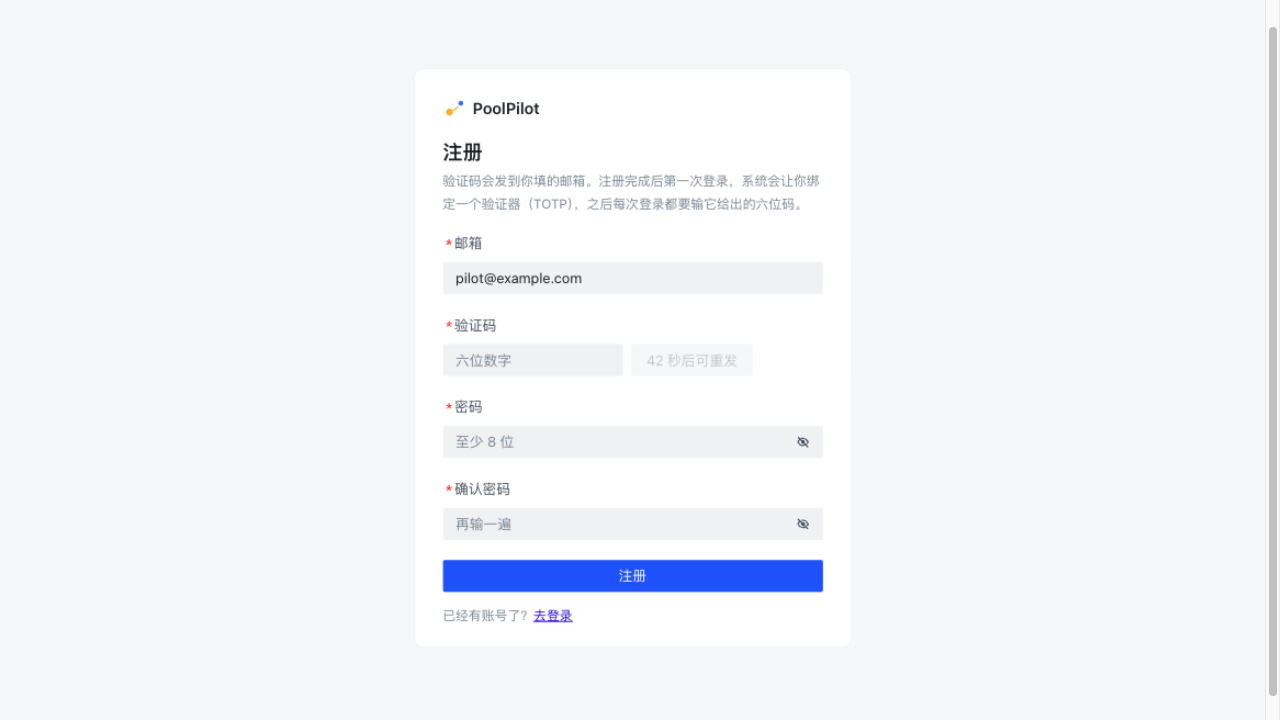
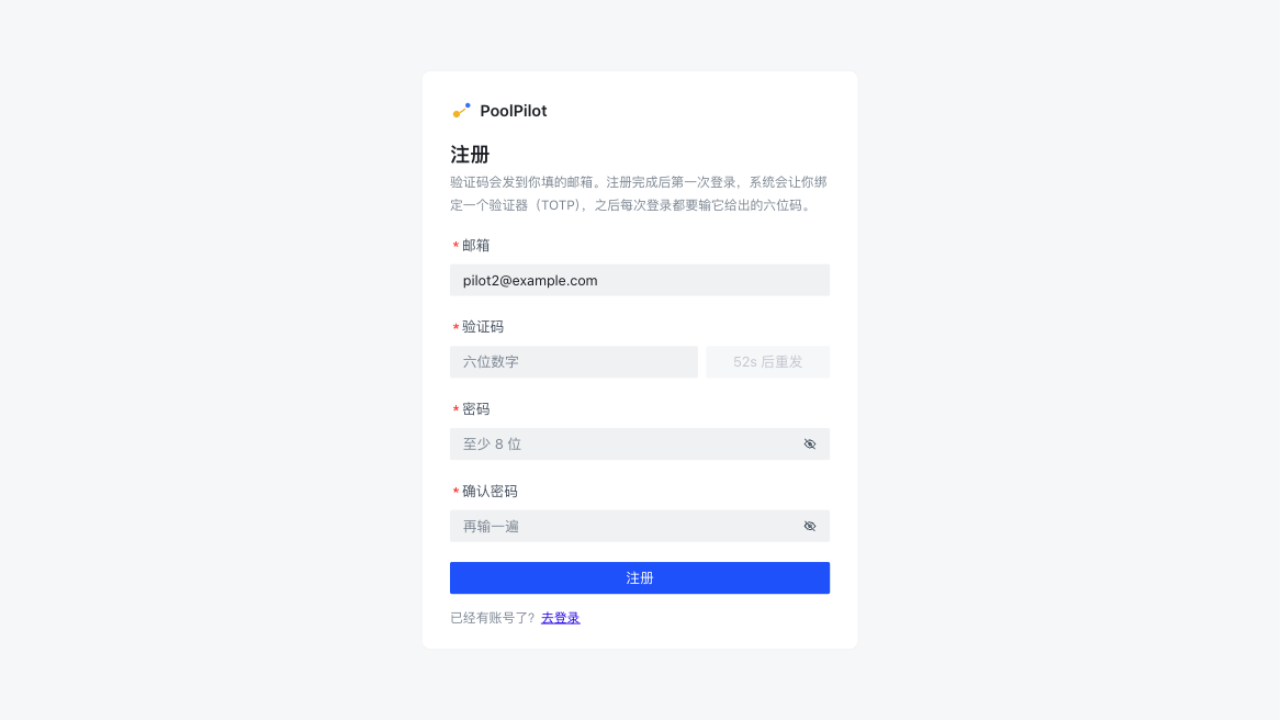
修登录/注册/绑定三页的两个布局毛病
**一、凭空多出来的滚动条**（用户先看到的那个）。`.auth-page` 是 `min-height: 100vh`
再加上下各 24px 内边距——而 Arco **没有全局 border-box**（实测这里算出来是 content-box），
于是页面高 768px，在 720 高的窗口里多出一条滚动条，指向的根本不是真溢出。
显式声明 `box-sizing: border-box` 即解；顺带把居中从父级的 align-items/justify-content
换成卡片自己的 `margin: auto`——卡片比视口高时（窄窗口下的 MFA 绑定页），
flex 居中会把顶部裁掉且滚不上去，那种"上半截永远看不到"的故障更难查。

**二、验证码那一行与其它字段对不齐**。Arco 的表单项内容区本身是个 flex 容器，
里面的自定义 div 作为 flex 子项**按内容收缩**（实测 290px，而密码框是 380px），
右边缘差 90px。给行 `flex: 1` 之后两者都是 380px、右边缘 823 对齐。
同时把发送按钮固定成 124px：倒计时文案比"发送验证码"长，宽度随文案变会让整行每秒抖一下
（文案顺带收短成「59s 后重发」）。这三张截图一并重拍。

diff --git a/web/src/views/RegisterView.vue b/web/src/views/RegisterView.vue
@@ -132,7 +132,7 @@ async function submit(): Promise<void> {
         <div class="code-row">
           <a-input v-model="code" placeholder="六位数字" maxlength="6" />
           <a-button :loading="sending" :disabled="!canSendCode" @click="sendCode">
-            {{ cooldown > 0 ? `${cooldown} 秒后可重发` : '发送验证码' }}
+            {{ cooldown > 0 ? `${cooldown}s 后重发` : '发送验证码' }}
           </a-button>
         </div>
       </a-form-item>
@@ -171,11 +171,23 @@ async function submit(): Promise<void> {
 /* 验证码与"发送"同一行：它们是同一个动作的两半 */
 .code-row {
   display: flex;
+
+  /* `flex: 1` 不能省：Arco 的表单项内容区本身是个 flex 容器，这个 div 作为它的
+     flex 子项会**按内容收缩**（实测 290px，而上面几个整宽字段是 380px）——
+     于是这一行与其它字段的右边缘对不齐 */
+  flex: 1;
   gap: 8px;
 }
 
 .code-row .arco-input-wrapper {
   flex: 1;
+  min-width: 0;
+}
+
+/* 按钮宽度固定：倒计时文案比"发送验证码"长，宽度随文案变的话整行每秒抖一下 */
+.code-row .arco-btn {
+  flex: 0 0 auto;
+  min-width: 124px;
 }
 
 .auth-error {

diff --git a/web/src/components/AuthCard.vue b/web/src/components/AuthCard.vue
@@ -34,9 +34,12 @@ defineProps<{
 
 <style scoped>
 .auth-page {
+  /* **必须显式声明 border-box**：Arco 没有全局 border-box（实测这里算出来是 content-box），
+     于是 `min-height: 100vh` 再加上下各 24px 内边距 = 748px，
+     在 720 高的窗口里凭空多出一条滚动条——内容离底部明明还远。
+     表现为"登录页右侧总有个滚轮"，而它指向的是一个根本不存在的内容溢出 */
+  box-sizing: border-box;
   display: flex;
-  align-items: center;
-  justify-content: center;
   min-height: 100vh;
   padding: 24px;
   background: var(--color-fill-1);
@@ -49,6 +52,11 @@ defineProps<{
   background: var(--color-bg-1);
   border: 1px solid var(--color-border-1);
   border-radius: 10px;
+
+  /* 居中用 margin: auto，而不是父级 align-items/justify-content：
+     卡片比视口高时（例如窄窗口下的 MFA 页），flex 居中会把顶部裁掉且滚不上去，
+     那种"页面上半截永远看不到"的故障比不居中难查得多 */
+  margin: auto;
 }
 
 .auth-brand {
